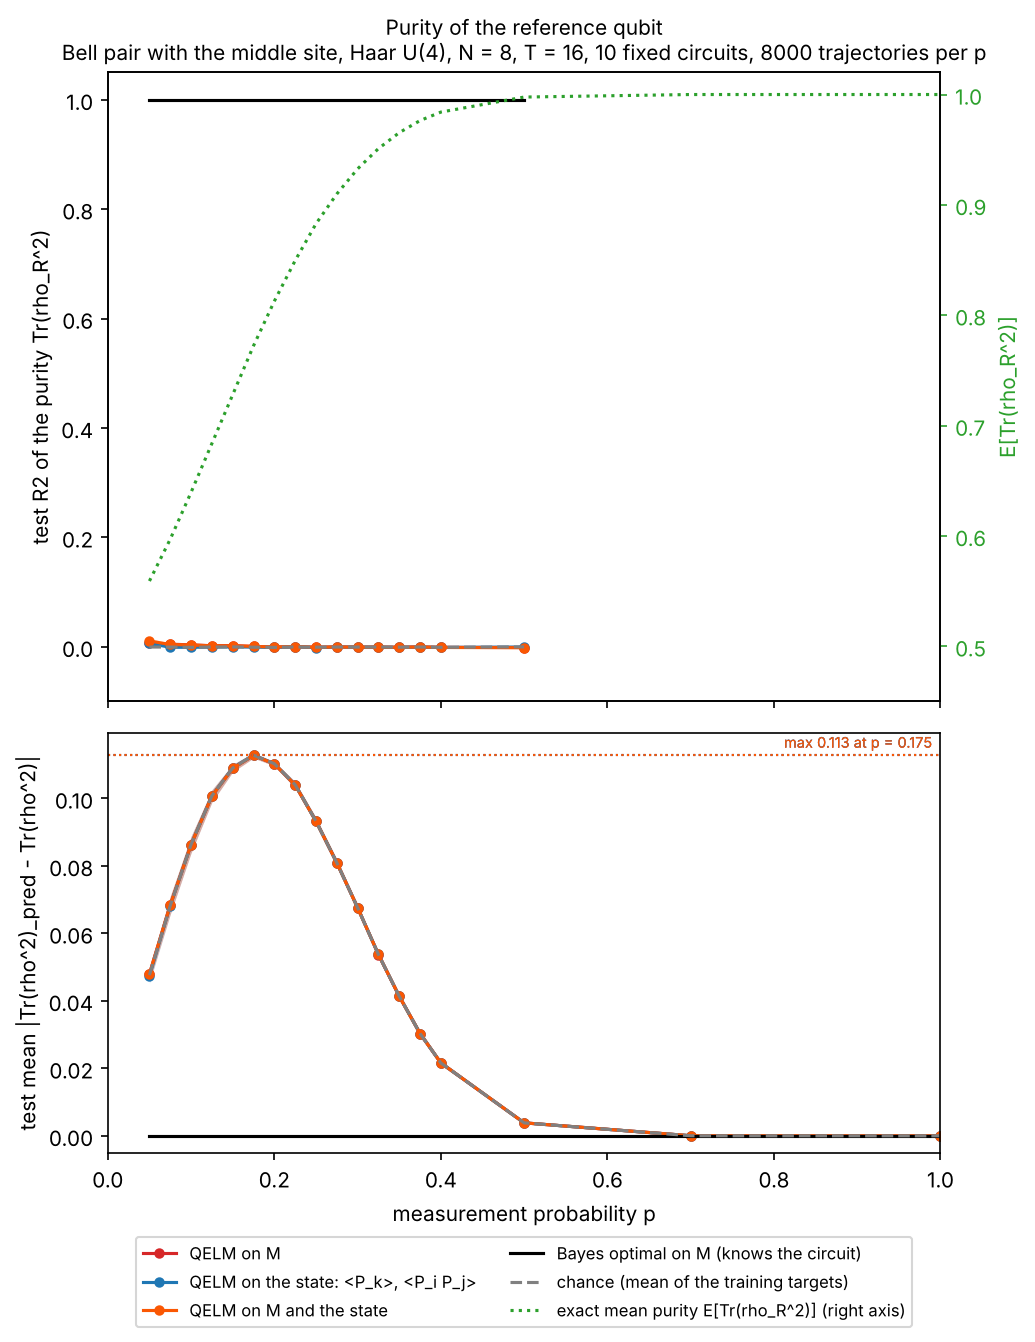
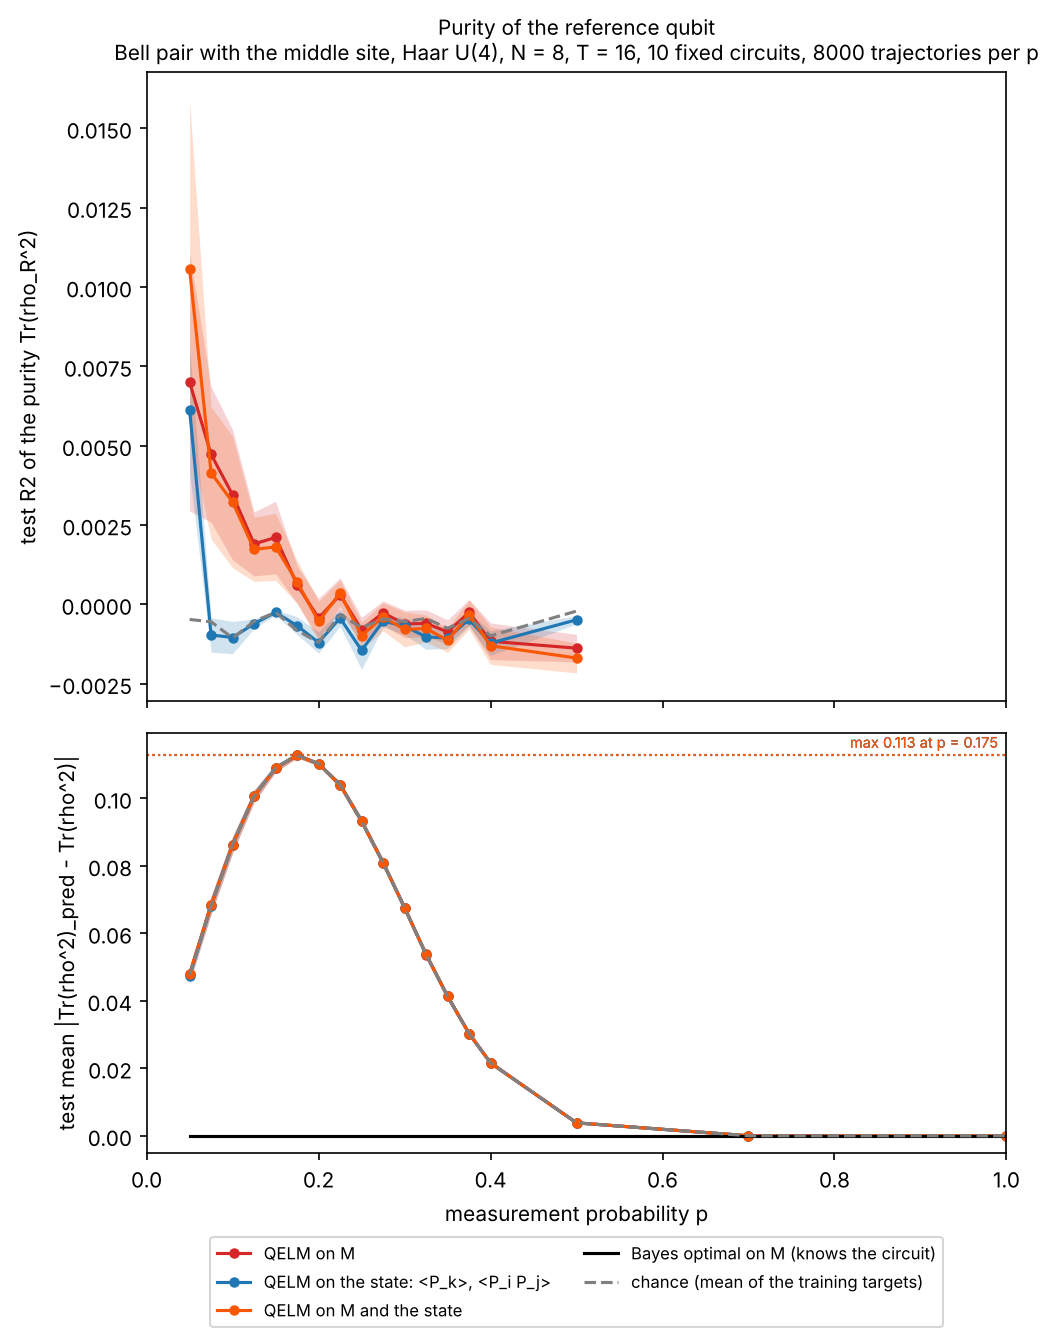
Purity figure: drop the Bayes line and the purity curve from the R2 panel (#277)
Claude-Session: https://claude.ai/code/session_0185Mugtdrp1R9nA1oxQFQog

diff --git a/experiments/bloch_purity/plot_bloch_purity.py b/experiments/bloch_purity/plot_bloch_purity.py
@@ -10,8 +10,8 @@ the circuits (mean and standard error) and draws, for each ``N``:
   (top) and, when the runs have them (``bloch_task.labels``: ``shots`` or
   ``both``), against single-shot Pauli measurements of ``R`` (bottom), where
   the Bayes decoder has a ceiling below 1;
-- ``purity_N<N>.png``: the ``R2`` of ``Tr(rho_R^2)`` against ``p``, with the
-  exact mean purity (the purification curve) on a second axis (top), and
+- ``purity_N<N>.png``: the ``R2`` of ``Tr(rho_R^2)`` against ``p``, without
+  the Bayes line (``R2 = 1``) so that the scale shows the QELMs (top), and
   the mean absolute error of the predicted purity (bottom), defined at every
   ``p``, with a horizontal line at the top of each QELM curve. Where ``R`` is
   pure on almost every trajectory (``std Tr(rho_R^2) <``
@@ -166,10 +166,16 @@ def _title(entry: dict[str, Any], N: int, what: str) -> str:
 
 
 def _draw_curves(
-    ax: Any, entry: dict[str, Any], score: str, mask: np.ndarray | None = None
+    ax: Any,
+    entry: dict[str, Any],
+    score: str,
+    mask: np.ndarray | None = None,
+    skip: tuple[str, ...] = (),
 ) -> None:
     ps = np.asarray(entry["p"])
     for name, legend, color in CURVES:
+        if name in skip:
+            continue
         mean = _array(entry, f"{score}_{name}")
         sem = _array(entry, f"{score}_{name}_sem")
         if mask is not None:
@@ -253,32 +259,17 @@ def plot_purity(entry: dict[str, Any], N: int, out: Path) -> Path:
         2, 1, figsize=(7, 9), sharex=True, gridspec_kw={"height_ratios": [3, 2]}
     )
     spread = _array(entry, "purity_std")
-    _draw_curves(ax, entry, "r2_purity", mask=spread >= PURITY_STD_MIN)
-    ax.set_ylim(-0.1, 1.05)
+    # No Bayes line (R2 = 1) on top, so that the scale shows the QELMs.
+    _draw_curves(
+        ax, entry, "r2_purity", mask=spread >= PURITY_STD_MIN, skip=("bayes",)
+    )
     ax.set_xlabel("")
     ax.set_ylabel("test R2 of the purity Tr(rho_R^2)")
-    ps = np.asarray(entry["p"])
-    twin = ax.twinx()
-    twin.plot(
-        ps,
-        _array(entry, "purity_mean"),
-        ":",
-        color="#2ca02c",
-        lw=1.5,
-        label="exact mean purity E[Tr(rho_R^2)] (right axis)",
-    )
-    twin.set_ylim(0.45, 1.02)
-    twin.set_ylabel("E[Tr(rho_R^2)]", color="#2ca02c")
-    twin.tick_params(axis="y", colors="#2ca02c")
     _draw_curves(ax_err, entry, "mae_purity")
     _mark_maxima(ax_err, entry, "mae_purity")
     ax_err.set_ylim(bottom=-0.005)
     ax_err.set_ylabel("test mean |Tr(rho^2)_pred - Tr(rho^2)|")
-    handles, labels = ax.get_legend_handles_labels()
-    h2, l2 = twin.get_legend_handles_labels()
     ax_err.legend(
-        handles + h2,
-        labels + l2,
         fontsize=8,
         loc="upper center",
         bbox_to_anchor=(0.5, -0.18),

diff --git a/experiments/bloch_purity/README.md b/experiments/bloch_purity/README.md
@@ -128,10 +128,12 @@ Produced by `experiments/bloch_purity/plot_bloch_purity.py` (#277).
 ![R2 and error of the purity against p](figures/purity_N8.png)
 
 **Figure 2. Purity of the reference qubit.** Top: test `R2` of a ridge
-fitted on `Tr(rho_R^2)` against `p`, same runs and colors as Figure 1; green
-dots, right axis: exact mean purity, the purification curve. Points where the
-purity varies by less than 0.01 over the trajectories (`p >= 0.7`) are not
-drawn. Bottom: mean absolute error of the predicted purity, defined at every
-`p`; Bayes is 0, and the three QELM curves lie on chance. The dotted
-horizontal line marks the top of the bell (0.113 at `p = 0.175`). Produced
-by `experiments/bloch_purity/plot_bloch_purity.py` (#277).
+fitted on `Tr(rho_R^2)` against `p`, same runs and colors as Figure 1; the
+Bayes line (`R2 = 1`) is left out so that the scale shows the QELMs, all
+below 0.011 (at `p = 0.05`) and within 0.002 of chance from `p = 0.2` on.
+Points where the purity varies by less than 0.01 over the trajectories
+(`p >= 0.7`) are not drawn. Bottom: mean absolute error of the predicted
+purity, defined at every `p`; Bayes is 0, and the three QELM curves lie on
+chance. The dotted horizontal line marks the top of the bell (0.113 at
+`p = 0.175`). Produced by `experiments/bloch_purity/plot_bloch_purity.py`
+(#277).
